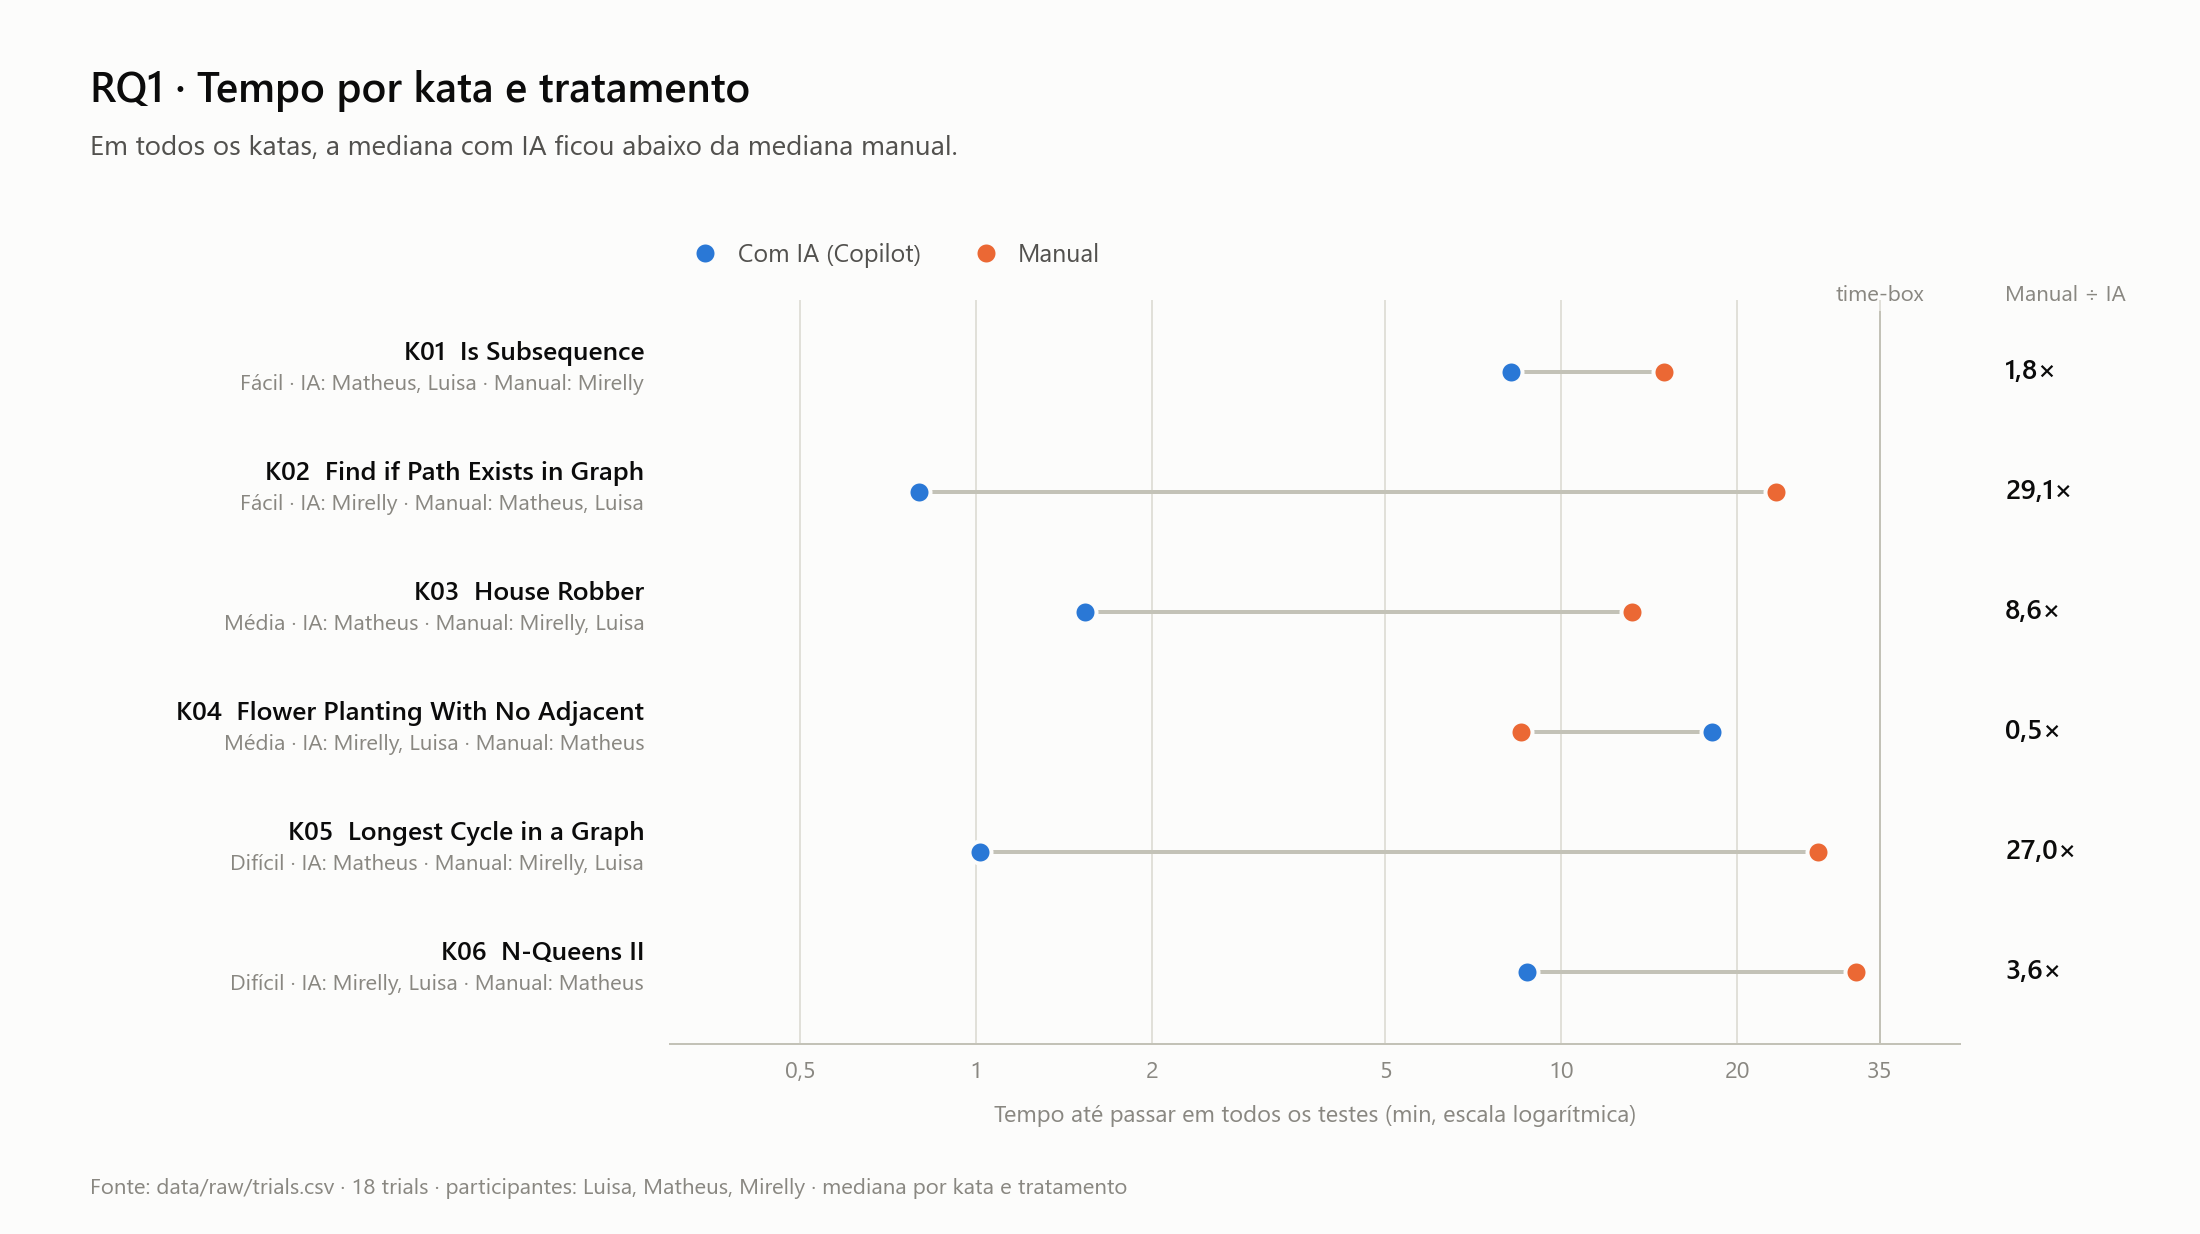
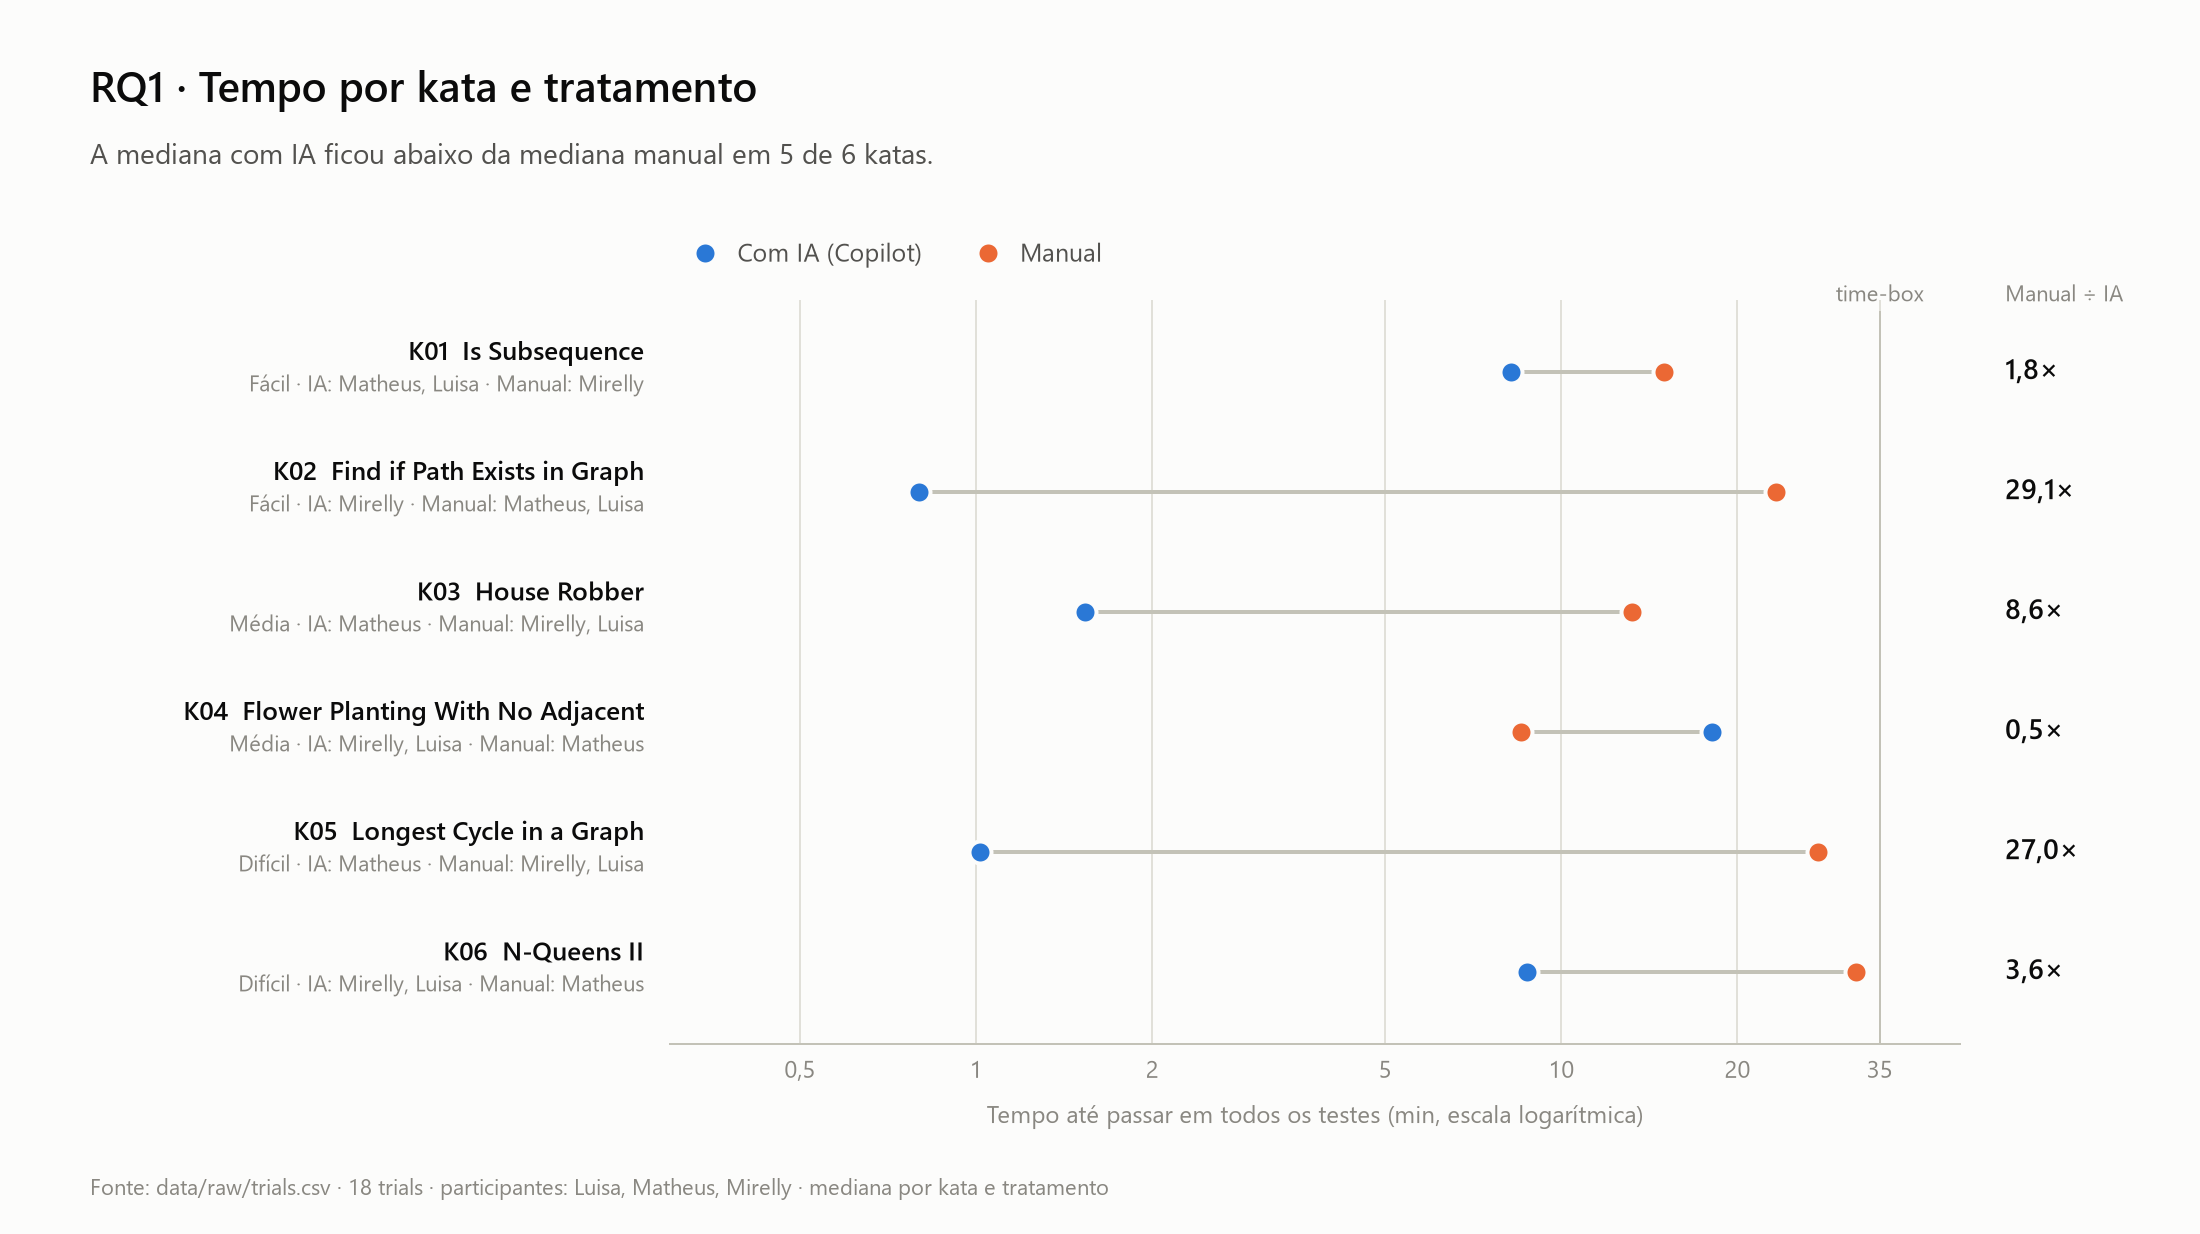
dashboard's atualizados #45

diff --git a/lab02/code/scripts/dashboard.py b/lab02/code/scripts/dashboard.py
@@ -421,6 +421,32 @@ def escala_bonita(valor, max_divisoes=5):
     return valor / max_divisoes, valor
 
 
+def deslocamentos_beeswarm(ax, valores, diametro_px=12):
+    """Deslocamento horizontal (em dados) de cada ponto para que nenhum se sobreponha.
+
+    Cada ponto vai para a posicao livre mais proxima do centro, testando
+    colisao em pixels com os pontos ja posicionados.
+    """
+    caixa = ax.get_window_extent()
+    (x0, x1), (y0, y1) = ax.get_xlim(), ax.get_ylim()
+    px_x = caixa.width / (x1 - x0)
+    px_y = caixa.height / (y1 - y0)
+    d = diametro_px * PX
+    colocados = []
+    deslocamentos = []
+    for v in valores:
+        y = v * px_y
+        candidatos = [0.0]
+        for k in range(1, 20):
+            candidatos += [k * d / 2, -k * d / 2]
+        for c in candidatos:
+            if all((c - cx) ** 2 + (y - cy) ** 2 >= d ** 2 for cx, cy in colocados):
+                colocados.append((c, y))
+                deslocamentos.append(c / px_x)
+                break
+    return deslocamentos
+
+
 def desenhar_painel_rq3(ax, estaticas, coluna, casas):
     estilo_eixos(ax, grade="y")
     ax.set_xlim(-0.6, 1.6)
@@ -436,19 +462,16 @@ def desenhar_painel_rq3(ax, estaticas, coluna, casas):
         valores = estaticas.loc[estaticas["tratamento"] == trat, coluna].sort_values().reset_index(drop=True)
         if valores.empty:
             continue
-        # valores proximos (ate 4% do eixo) ficam lado a lado em vez de sobrepostos
-        grupos = []
-        for v in valores:
-            if grupos and v - grupos[-1][-1] <= 0.04 * topo:
-                grupos[-1].append(v)
-            else:
-                grupos.append([v])
-        xs = [x + 0.17 * (i - (len(g) - 1) / 2) for g in grupos for i in range(len(g))]
+        xs = [x + d for d in deslocamentos_beeswarm(ax, valores)]
+        ys = list(valores)
+        meia = max(abs(xi - x) for xi in xs) + 0.14
         med = valores.median()
-        ax.plot([x - 0.3, x + 0.3], [med, med], color=INK, linewidth=pt(2), zorder=3, solid_capstyle="butt")
-        pontos(ax, xs, valores, COR[trat])
-        ax.text(x + 0.34, med, fmt(med, casas), ha="left", va="center", fontsize=9,
-                color=INK, fontweight="semibold")
+        ax.plot([x - meia, x + meia], [med, med], color=INK, linewidth=pt(2), zorder=3,
+                solid_capstyle="butt")
+        pontos(ax, xs, ys, COR[trat])
+        ax.text(x + meia + 0.05, med, fmt(med, casas), ha="left", va="center", fontsize=9,
+                color=INK, fontweight="semibold",
+                bbox=dict(boxstyle="round,pad=0.15", facecolor=SURFACE, edgecolor="none"))
 
 
 def desenhar_tile_duplicacao(fig, esq, topo, larg, alt, estaticas):
@@ -528,8 +551,14 @@ def grafico_tempo_por_tratamento(trials):
 def grafico_tempo_por_kata(trials):
     n = trials["kata"].nunique()
     fig = figura(11, 2.45 + 0.62 * n)
-    cabecalho(fig, 0.45, 0.35, "RQ1 · Tempo por kata e tratamento",
-              "Em todos os katas, a mediana com IA ficou abaixo da mediana manual.")
+    medianas = trials.groupby(["kata", "tratamento"])["tempo_min"].median().unstack().dropna()
+    ia_mais_rapida = int((medianas["IA"] < medianas["Manual"]).sum())
+    if ia_mais_rapida == len(medianas):
+        sub = "Em todos os katas, a mediana com IA ficou abaixo da mediana manual."
+    else:
+        sub = (f"A mediana com IA ficou abaixo da mediana manual em {ia_mais_rapida} "
+               f"de {len(medianas)} katas.")
+    cabecalho(fig, 0.45, 0.35, "RQ1 · Tempo por kata e tratamento", sub)
     ax = eixos(fig, 3.35, 1.5, 6.45, 0.62 * n)
     desenhar_tempo_por_kata(ax, trials)
     rodape(fig, f"Fonte: data/raw/trials.csv · {descricao_amostra(trials)} · "
@@ -557,7 +586,7 @@ def grafico_rq3(estaticas):
     cabecalho(fig, 0.45, 0.35, "RQ3 · Estrutura do código produzido",
               "Cada ponto é a solução final de um trial; a linha preta marca a mediana do tratamento.")
     desenhar_rq3(fig, 0.45, 1.35, 11.1, 3.05, estaticas)
-    rodape(fig, f"Fonte: data/processed/ck e data/processed/cpd-*.xml · {descricao_amostra(estaticas)} · "
+    rodape(fig, f"Fonte: data/processed/ck e data/processed/cpd/cpd-*.xml · {descricao_amostra(estaticas)} · "
                 "katas diferentes em cada tratamento")
     salvar(fig, "rq3_metricas_estaticas.png")
 
